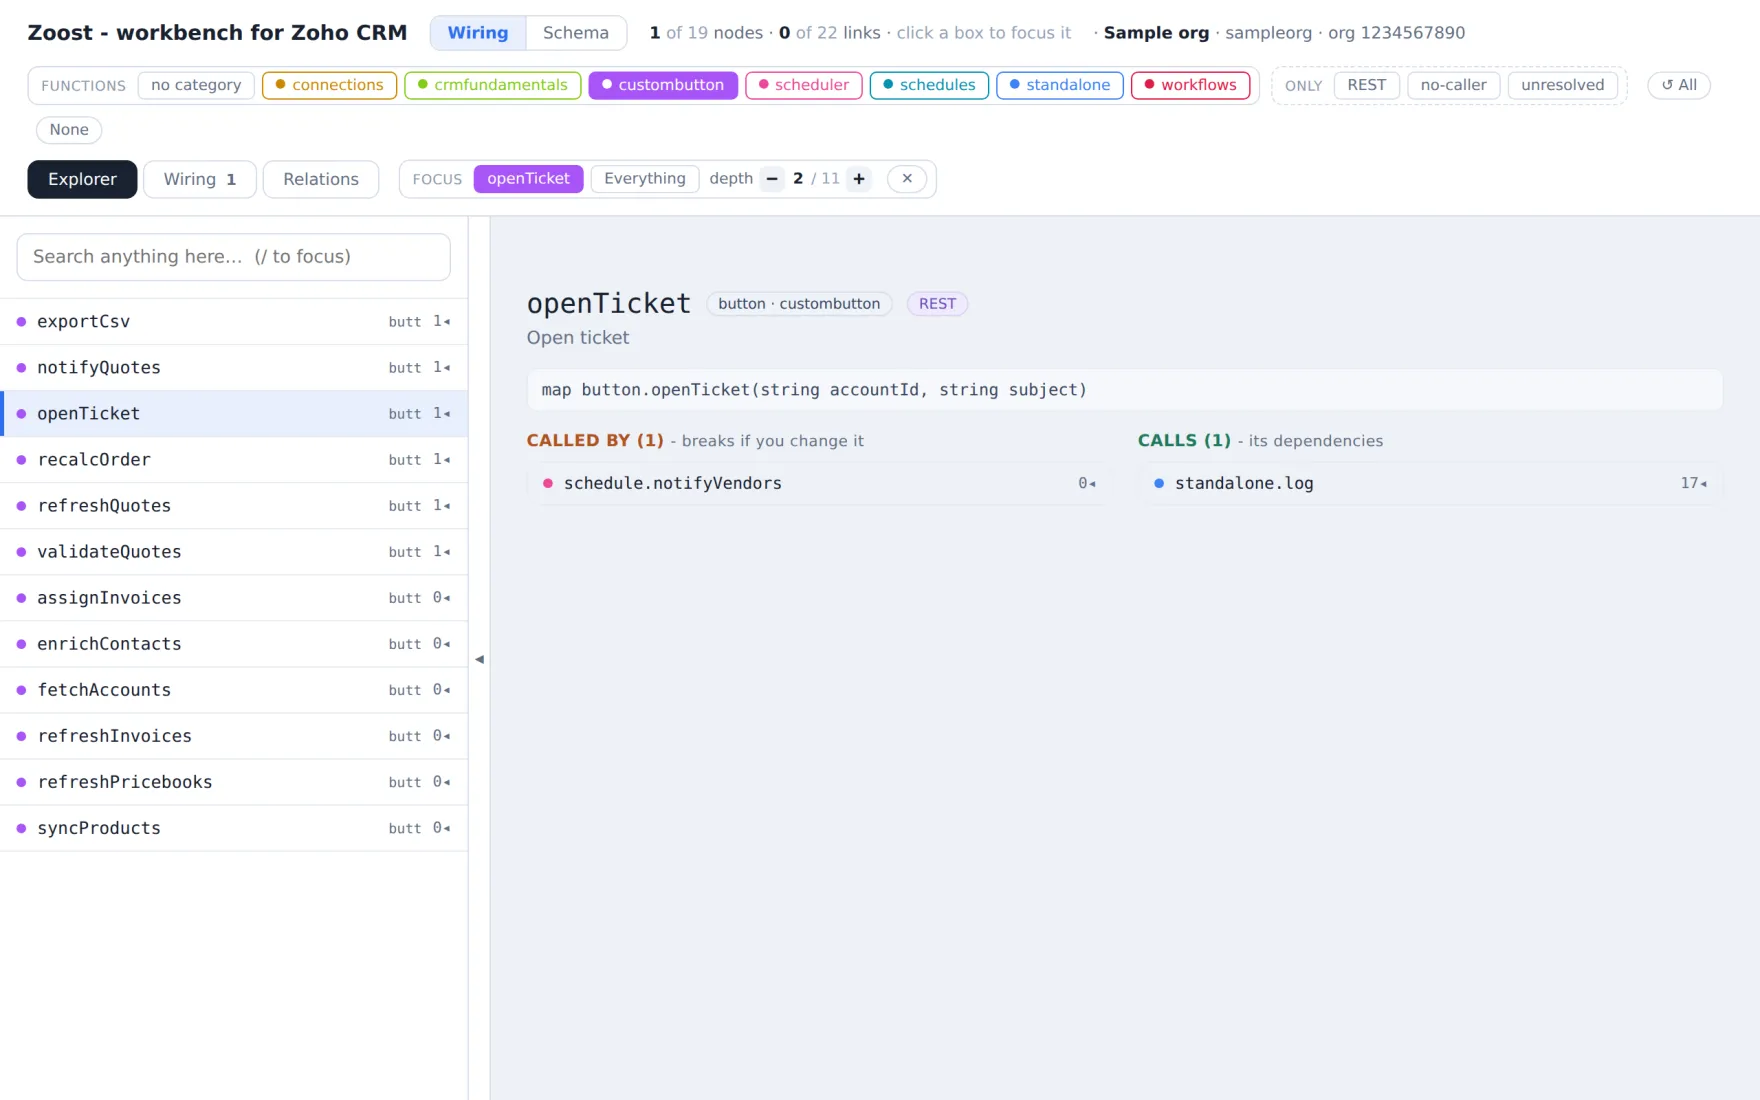
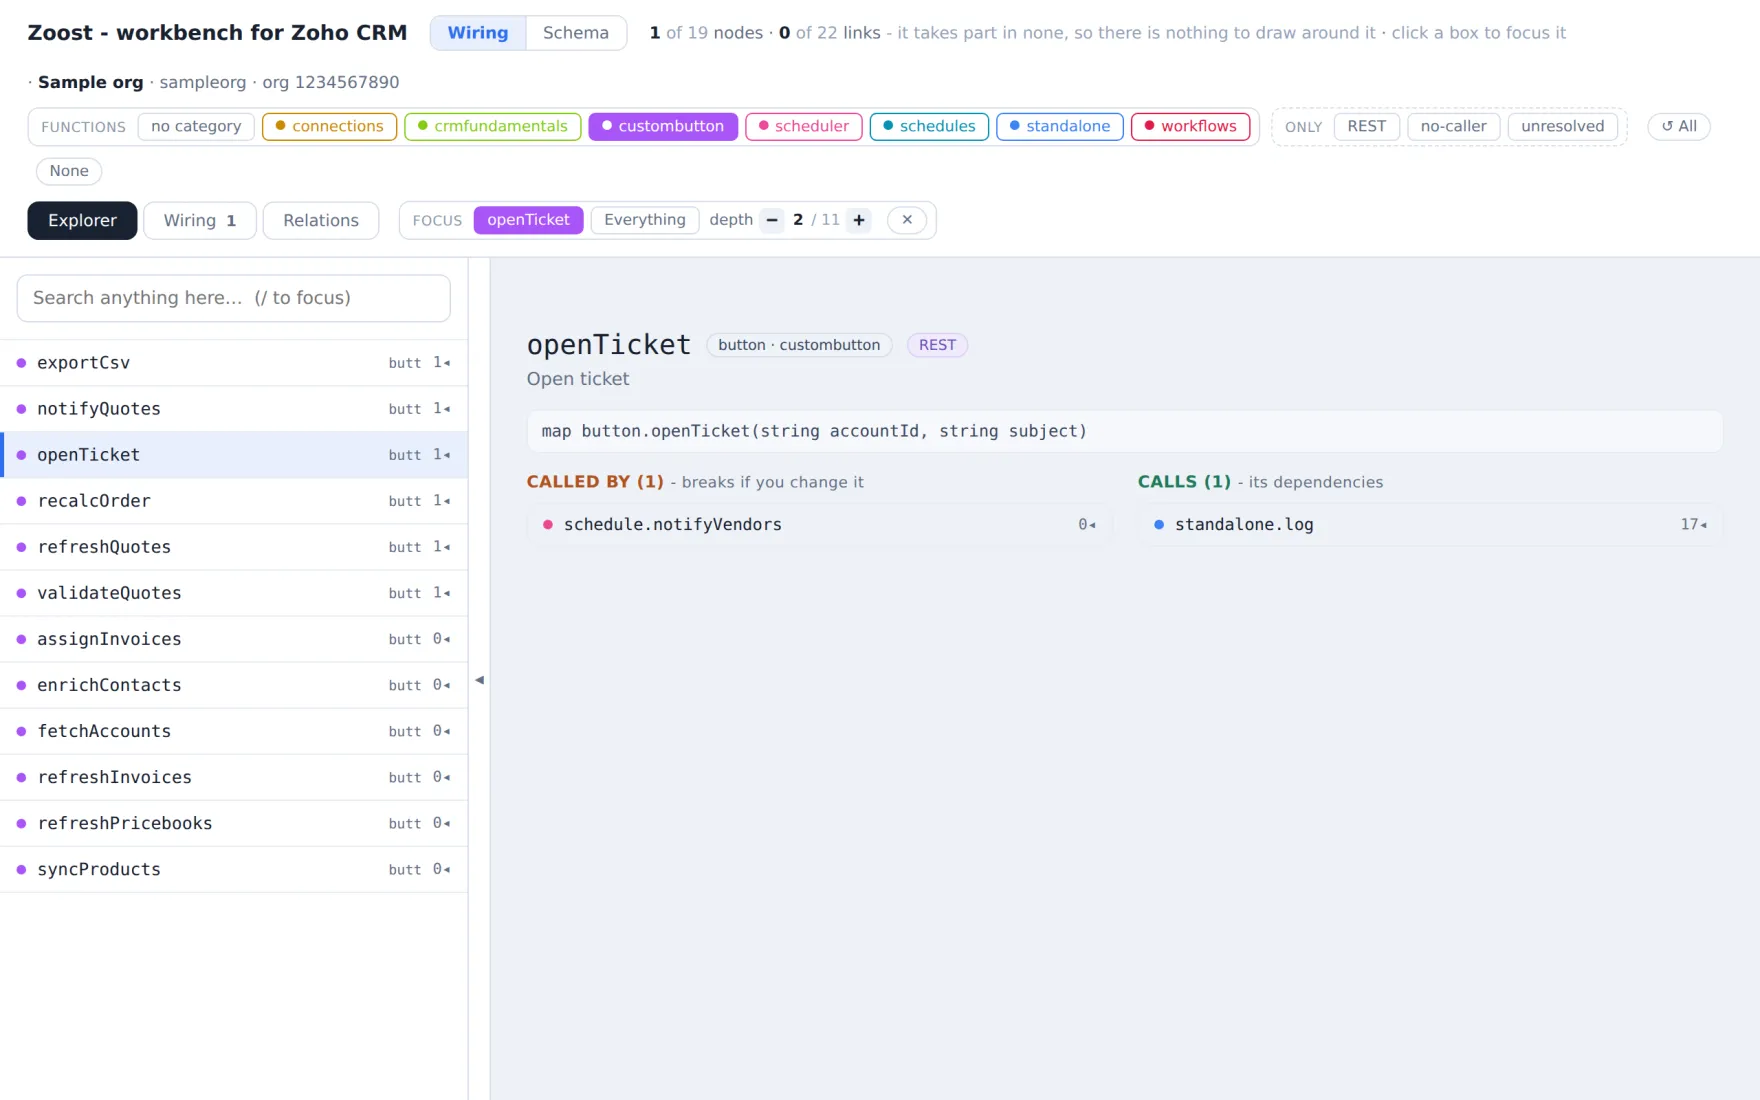
Focusing a table with no relation drew nothing, and said nothing
Reported from a real workspace: clicking some query tables opened the ER window on a blank sheet,
with no count beside the chip and no pattern the author could see from outside. Three defects on
one path, and the first two were mine to find because the third hid them.

**The field filter was deciding whether a box exists.** `erVisibleIds()` kept a node only if the
columns the current filter leaves are more than none - and that filter keeps lookups, mandatory
fields and anything called Name, Owner or id. In Zoho Analytics nothing is mandatory, so a query
table with no lookup and no column with one of those three names was dropped from the diagram
entirely. Measured on a workspace of 377 views: 86 of the 135 entities with columns were outside
it for that reason. The `relations` branch beside it has always kept the focused node for exactly
this reason; this one had not.

**An impossible focus was taken on trust.** The window assigned `DATA.focus` without checking the
node exists - the CRM's copy has checked since it was written, the Analytics one never did - so a
view absent from the ER model produced the same blank sheet by a different route. It is refused
now, and *said*: the window names the view and shows the whole workspace instead.

**And the panel would not open what the window can now draw.** «Takes part in no relation» was
treated as «nothing to show» and the button was greyed out. The entity is the answer: it is drawn
[…]

diff --git a/apps/analytics/graphview.js b/apps/analytics/graphview.js
@@ -142,7 +142,12 @@ const NSCOL = (ns) => KINDCOL(ns) || '#94a3b8';
   }
   $('s-ws').innerHTML = wsLine(DATA.workspace);
   buildChips(); render(); initPositions(); graphStat(); updateScopeUI();
-  if (DATA.kind === 'schema' && DATA.focus) {
+  // The focus is honoured only if the diagram has that node. `schema` is built from the nodes of
+  // the ER model Zoho Analytics returns, and a view it does not carry is not in here - asking to
+  // centre on one used to compute the neighbourhood of an id that does not exist and draw the empty
+  // result: a blank sheet with no number beside it, which is what was reported.
+  if (DATA.kind === 'schema' && DATA.focus && !N[DATA.focus]) noFocusHere(DATA.focus);
+  if (DATA.kind === 'schema' && DATA.focus && N[DATA.focus]) {
     curFocus = DATA.focus; computeMaxDepth();
     egoDepth = Math.max(1, Math.min(maxEgoDepth, DATA.depth || 2));
     updateDepthUI();
@@ -762,7 +767,13 @@ function statOf(set, allN, allE) {
   const c = statCounts(set);
   const nf = c.n !== allN ? ` <span style="color:#94a3b8">of ${allN}</span>` : '';
   const ef = c.e !== allE ? ` <span style="color:#94a3b8">of ${allE}</span>` : '';
-  return `<b>${c.n}</b>${nf} tables · <b>${c.e}</b>${ef} relations`;
+  // Singular when there is one of them, and a reason when the answer is a single box with nothing
+  // around it: «1 tables · 0 relations» is a count that reads as a fault. The focused view really is
+  // alone - the ER model Zoho Analytics returns links nothing to it - and saying so is the difference
+  // between an answer and a shrug.
+  const alone = c.n === 1 && c.e === 0 && curFocus;
+  return `<b>${c.n}</b>${nf} table${c.n === 1 ? '' : 's'} · <b>${c.e}</b>${ef} relation${c.e === 1 ? '' : 's'}`
+    + (alone ? ' <span style="color:#94a3b8">- it takes part in none, so there is nothing to draw around it</span>' : '');
 }
 // The whole-graph line, with no focus on it. Lifted out of the init block so the chips can put it
 // back: it was written once at startup and then never again, so filtering changed the drawing
@@ -809,6 +820,18 @@ function setScope(all) {
   $('erboxes').innerHTML = '';
   runHeavy($('v-er'), all ? 'Laying out every table\u2026' : `Laying out around ${label(N[curFocus]) || curFocus}\u2026`, work);
 }
+// Asked to centre on something this diagram does not contain. Never silently: the whole point of
+// opening it focused was to look at that one thing, so the window says which it was and what it is
+// showing instead - and it stays on the whole workspace, which is at least an answer.
+function noFocusHere(id) {
+  const line = document.getElementById('statline');
+  if (!line) return;
+  // What it was called, when the caller knew: an id is not something a reader can act on.
+  const name = String(DATA.focusName || id);
+  line.innerHTML = `<b>Nothing to focus on.</b> ${name} is not in this diagram - `
+    + `the ER model Zoho Analytics returns does not carry it, so it has no columns and no relations here. Showing everything instead.`;
+}
+
 function egoStat() {
   if (!curFocus) return;
   if (scopeAll) {
@@ -1043,8 +1066,15 @@ const erCandidate = (id) => !!(N[id] && passKind(N[id]) && (!egoSet || egoSet.ha
 function erVisibleIds() {
   // A table with no column to show has nothing to draw and stays out - the behaviour that was
   // already here, and a different question from having no relation left.
+  // **The thing you asked to look at is always drawn.** The field filter decides what is *listed
+  // inside* a box, and it was deciding whether the box exists at all: a query table with no lookup
+  // and no column called Name, Owner or id left nothing to list, so it was dropped - and focusing on
+  // it from the Explorer, which does list it, produced an empty sheet with no explanation. Measured
+  // on a real workspace of 377 views: 86 of the 135 entities with columns were outside the diagram
+  // for that reason. The `relations` branch below has always kept the focus for exactly this reason;
+  // this one had not, which is the same guard present on one path and missing on its twin.
   if (erEmph !== 'relations') {
-    return nodesA.filter((id) => erCandidate(id) && erFieldsFor(N[id]).length > 0);
+    return nodesA.filter((id) => erCandidate(id) && (erFieldsFor(N[id]).length > 0 || id === curFocus));
   }
   const linked = linkedUnderFilter();
   return nodesA.filter((id) => erCandidate(id) && (linked.has(id) || id === curFocus));

diff --git a/apps/crm/graphview.js b/apps/crm/graphview.js
@@ -189,6 +189,9 @@ const NSCOL = (ns) => KINDCOL(ns) || '#94a3b8';
   // workflows, schedules and connections became nodes.
   $('q').placeholder = (DATA.kind === 'schema' ? 'Search module\u2026' : 'Search anything here\u2026') + '  (/ to focus)';
   buildChips(); render(); initPositions(); wireSubject(); graphStat(); updateScopeUI();
+  // Guarded here since this window was written; what it did not do is say anything when the guard
+  // fired, so an unanswerable request looked exactly like an ordinary whole-graph view.
+  if (DATA.focus && !N[DATA.focus]) noFocusHere(DATA.focus);
   if (DATA.focus && N[DATA.focus]) {
     curFocus = DATA.focus; computeMaxDepth();
     egoDepth = Math.max(1, Math.min(maxEgoDepth, DATA.depth || 2));
@@ -1048,7 +1051,11 @@ function statOf(set, allN, allE) {
   const c = statCounts(set);
   const nf = c.n !== allN ? ` <span style="color:#94a3b8">of ${allN}</span>` : '';
   const ef = c.e !== allE ? ` <span style="color:#94a3b8">of ${allE}</span>` : '';
-  return `<b>${c.n}</b>${nf} ${NOUN().n} \u00b7 <b>${c.e}</b>${ef} ${NOUN().e}`;
+  // A reason when the answer is one box with nothing around it, the same as its twin: the count on
+  // its own reads as a fault rather than as the finding it is.
+  const alone = c.n === 1 && c.e === 0 && curFocus;
+  return `<b>${c.n}</b>${nf} ${NOUN().n} \u00b7 <b>${c.e}</b>${ef} ${NOUN().e}`
+    + (alone ? ' <span style="color:#94a3b8">- it takes part in none, so there is nothing to draw around it</span>' : '');
 }
 // The whole-graph line, with no focus on it. Lifted out of the init block so the chips can put it
 // back: it was written once at startup and then never again, so filtering changed the drawing
@@ -1071,6 +1078,18 @@ function orphanNote() {
   const k = orphanedByFilter();
   return k ? ` \u00b7 <span style="color:#94a3b8">${k} not drawn - nothing links them</span>` : '';
 }
+// Asked to centre on something this diagram does not contain. Never silently: the whole point of
+// opening it focused was to look at that one thing, so the window says which it was and what it is
+// showing instead - and it stays on the whole workspace, which is at least an answer.
+function noFocusHere(id) {
+  const line = document.getElementById('statline');
+  if (!line) return;
+  // What it was called, when the caller knew: an id is not something a reader can act on.
+  const name = String(DATA.focusName || id);
+  line.innerHTML = `<b>Nothing to focus on.</b> ${name} is not in this diagram - `
+    + `nothing names it, so it is not one of the boxes this graph is made of. Showing everything instead.`;
+}
+
 function egoStat() {
   if (!curFocus) return;
   if (scopeAll) {
@@ -1349,8 +1368,15 @@ const erCandidate = (id) => !!(N[id] && passKind(N[id]) && (!egoSet || egoSet.ha
 function erVisibleIds() {
   // A table or module with no field to show has nothing to draw and stays out - the behaviour that
   // was already here, and a different question from having no link left.
+  // **The thing you asked to look at is always drawn.** The field filter decides what is *listed
+  // inside* a box, and it was deciding whether the box exists at all: a query table with no lookup
+  // and no column called Name, Owner or id left nothing to list, so it was dropped - and focusing on
+  // it from the Explorer, which does list it, produced an empty sheet with no explanation. Measured
+  // on a real workspace of 377 views: 86 of the 135 entities with columns were outside the diagram
+  // for that reason. The `relations` branch below has always kept the focus for exactly this reason;
+  // this one had not, which is the same guard present on one path and missing on its twin.
   if (DATA.kind === 'schema' && erEmph !== 'relations') {
-    return nodesA.filter((id) => erCandidate(id) && erFieldsFor(N[id]).length > 0);
+    return nodesA.filter((id) => erCandidate(id) && (erFieldsFor(N[id]).length > 0 || id === curFocus));
   }
   const linked = linkedUnderFilter();
   return nodesA.filter((id) => erCandidate(id) && (linked.has(id) || id === curFocus));

diff --git a/apps/analytics/sidepanel.js b/apps/analytics/sidepanel.js
@@ -1224,10 +1224,24 @@ async function openDetail(id) {
   // the depth stays adjustable there.
   const chain = structureChain(v, viewById());
   const srcId = chain ? chain[chain.length - 1].id : null;
-  $('dgraph').disabled = !srcId || !relationsOf(srcId).length;
-  $('dgraph').title = srcId && relationsOf(srcId).length
-    ? 'ER diagram - opened on this table, in its own window'
-    : 'ER diagram - this table takes part in no relation, so there is nothing to draw';
+  // Two different «no»s, and they were one. A table can be in the diagram and take part in no
+  // relation - then there is nothing to draw around it. A view can be absent from the diagram
+  // altogether, because `schema` is built from the ER model Zoho Analytics returns and that model
+  // does not carry every view: asking to centre on one of those opened an empty window, which is
+  // what was reported. Neither is offered, and each says which it is.
+  // Offered whenever the diagram contains the view, relations or not. «No relation» was treated as
+  // «nothing to show» and the button was greyed out - but the entity is the answer: the window draws
+  // it alone and says that nothing links to it, which is a finding rather than an absence. Reported
+  // twice in one session: first as an empty sheet, then as a button that would not open it.
+  const inDiagram = !!(srcId && schema[srcId]);
+  $('dgraph').disabled = !inDiagram;
+  $('dgraph').title = !srcId
+    ? 'ER diagram - nothing here has a structure to draw'
+    : !inDiagram
+      ? 'ER diagram - this view is not in the ER model Zoho Analytics returns, so the diagram does not contain it'
+      : relationsOf(srcId).length
+        ? 'ER diagram - opened on this table, in its own window'
+        : 'ER diagram - opened on this table; it takes part in no relation, so it is drawn on its own';
   $('dgraph').onclick = () => openSchemaGraph(srcId, 2);
   $('dtitle').title = `${v.type} · ${v.folderName || 'no folder'} · id ${v.id}`;
   // A tab that cannot say anything about this view is disabled, not shown and silently empty.
@@ -1415,6 +1429,9 @@ async function openSchemaGraph(focusId, depth) {
     const g = buildSchemaGraph();
     if (!g.counts.nodes) throw new Error('no tables in this workspace');
     if (focusId && g.nodes[focusId]) { g.focus = focusId; g.depth = Math.max(1, depth || 2); }
+    // The name travels with the id, because the window can only report what it was handed: asked to
+    // centre on a view the diagram does not contain, it would otherwise have to name a number.
+    else if (focusId) { g.focus = focusId; g.focusName = nameOf(focusId, viewById()); }
     await chrome.storage.session.set({ graphData: graphForWindow(g) });
     await chrome.windows.create({ url: chrome.runtime.getURL('graphview.html'), type: 'normal', width: 1240, height: 840 });
     status(`Schema: ${g.counts.nodes} tables, ${g.counts.edges} relations.`, 'ok');

diff --git a/site/docs-analytics.html b/site/docs-analytics.html
@@ -227,7 +227,7 @@ git init &amp;&amp; git add -A &amp;&amp; git commit -m "initial mirror"</code><
     rather than built by you. Zoho Analytics' own ER model knows which; the view list does not.</p>
 
   <figure class="shot">
-    <img src="/img/analytics-lineage.webp?v=55c5e0eae9" width="1760" height="1100" loading="lazy" decoding="async"
+    <img src="/img/analytics-lineage.webp?v=af26d0b97c" width="1760" height="1100" loading="lazy" decoding="async"
          alt="The Lineage tab of a query table, showing which columns it reads and from where.">
     <figcaption>Lineage: for a query table, which columns it reads and from which view - the chain Zoho Analytics does not draw.</figcaption>
   </figure>

diff --git a/site/analytics.html b/site/analytics.html
@@ -147,7 +147,7 @@
     </div>
   
       <figure class="shot">
-        <img src="/img/analytics-panel.webp?v=7b601a8d2b" width="1760" height="1100" loading="lazy" decoding="async"
+        <img src="/img/analytics-panel.webp?v=d381722188" width="1760" height="1100" loading="lazy" decoding="async"
              alt="The Zoost panel beside Zoho Analytics: every view in the workspace with its type, columns and dates, and the SQL of the selected query table below.">
         <figcaption><b>The whole workspace in one list</b> - type, folder, column count and both dates - with the SQL of whatever you select underneath.</figcaption>
       </figure>

diff --git a/site/it/analytics.html b/site/it/analytics.html
@@ -153,7 +153,7 @@
     </div>
   
       <figure class="shot">
-        <img src="/img/analytics-panel.webp?v=7b601a8d2b" width="1760" height="1100" loading="lazy" decoding="async"
+        <img src="/img/analytics-panel.webp?v=d381722188" width="1760" height="1100" loading="lazy" decoding="async"
              alt="Il pannello Zoost accanto a Zoho Analytics: ogni vista del workspace con tipo, colonne e date, e sotto l'SQL della query table selezionata.">
         <figcaption><b>Tutto il workspace in un elenco</b> - tipo, cartella, numero di colonne e le due date - con sotto l'SQL di quello che selezioni.</figcaption>
       </figure>

diff --git a/site/it/docs-analytics.html b/site/it/docs-analytics.html
@@ -245,7 +245,7 @@ git init &amp;&amp; git add -A &amp;&amp; git commit -m "initial mirror"</code><
     viste no.</p>
 
   <figure class="shot">
-    <img src="/img/analytics-lineage.webp?v=55c5e0eae9" width="1760" height="1100" loading="lazy" decoding="async"
+    <img src="/img/analytics-lineage.webp?v=af26d0b97c" width="1760" height="1100" loading="lazy" decoding="async"
          alt="La scheda Lineage di una query table, con le colonne che legge e da dove.">
     <figcaption>Lineage: per una query table, quali colonne legge e da quale vista - la catena che Zoho Analytics non disegna.</figcaption>
   </figure>

diff --git a/site/docs-crm.html b/site/docs-crm.html
@@ -409,7 +409,7 @@ git commit -m "baseline"</code></pre>
   </figure>
 
   <figure class="shot">
-    <img src="/img/crm-buttons.webp?v=9c8c3b9f57" width="1760" height="1100" loading="lazy" decoding="async"
+    <img src="/img/crm-buttons.webp?v=7f5f72036e" width="1760" height="1100" loading="lazy" decoding="async"
          alt="The diagram window with one category switched off, redrawing the graph rather than hiding pieces.">
     <figcaption>The chips do not hide boxes, they rebuild the drawing - so switching a kind off actually makes a large graph readable.</figcaption>
   </figure>

diff --git a/site/it/docs-crm.html b/site/it/docs-crm.html
@@ -433,7 +433,7 @@ git commit -m "baseline"</code></pre>
   </figure>
 
   <figure class="shot">
-    <img src="/img/crm-buttons.webp?v=9c8c3b9f57" width="1760" height="1100" loading="lazy" decoding="async"
+    <img src="/img/crm-buttons.webp?v=7f5f72036e" width="1760" height="1100" loading="lazy" decoding="async"
          alt="La finestra del diagramma con una categoria spenta, che ridisegna il grafo invece di nascondere pezzi.">
     <figcaption>I chip non nascondono i riquadri, ridisegnano: spegnere un tipo rende davvero leggibile un grafo grande.</figcaption>
   </figure>

diff --git a/site/it/how-to.html b/site/it/how-to.html
@@ -83,7 +83,7 @@
   </figure>
 
   <figure class="shot">
-    <img src="/img/analytics-panel.webp?v=7b601a8d2b" width="1760" height="1100" loading="lazy" decoding="async"
+    <img src="/img/analytics-panel.webp?v=d381722188" width="1760" height="1100" loading="lazy" decoding="async"
          alt="Il pannello Zoost accanto a Zoho Analytics, con l'elenco di tutte le viste del workspace.">
     <figcaption><b>Zoost Analytics</b> - lo stesso, un prodotto più in là.</figcaption>
   </figure>

diff --git a/site/how-to.html b/site/how-to.html
@@ -76,7 +76,7 @@
   </figure>
 
   <figure class="shot">
-    <img src="/img/analytics-panel.webp?v=7b601a8d2b" width="1760" height="1100" loading="lazy" decoding="async"
+    <img src="/img/analytics-panel.webp?v=d381722188" width="1760" height="1100" loading="lazy" decoding="async"
          alt="The Zoost panel beside Zoho Analytics, listing every view in the workspace.">
     <figcaption><b>Zoost Analytics</b> - the same, one product over.</figcaption>
   </figure>
